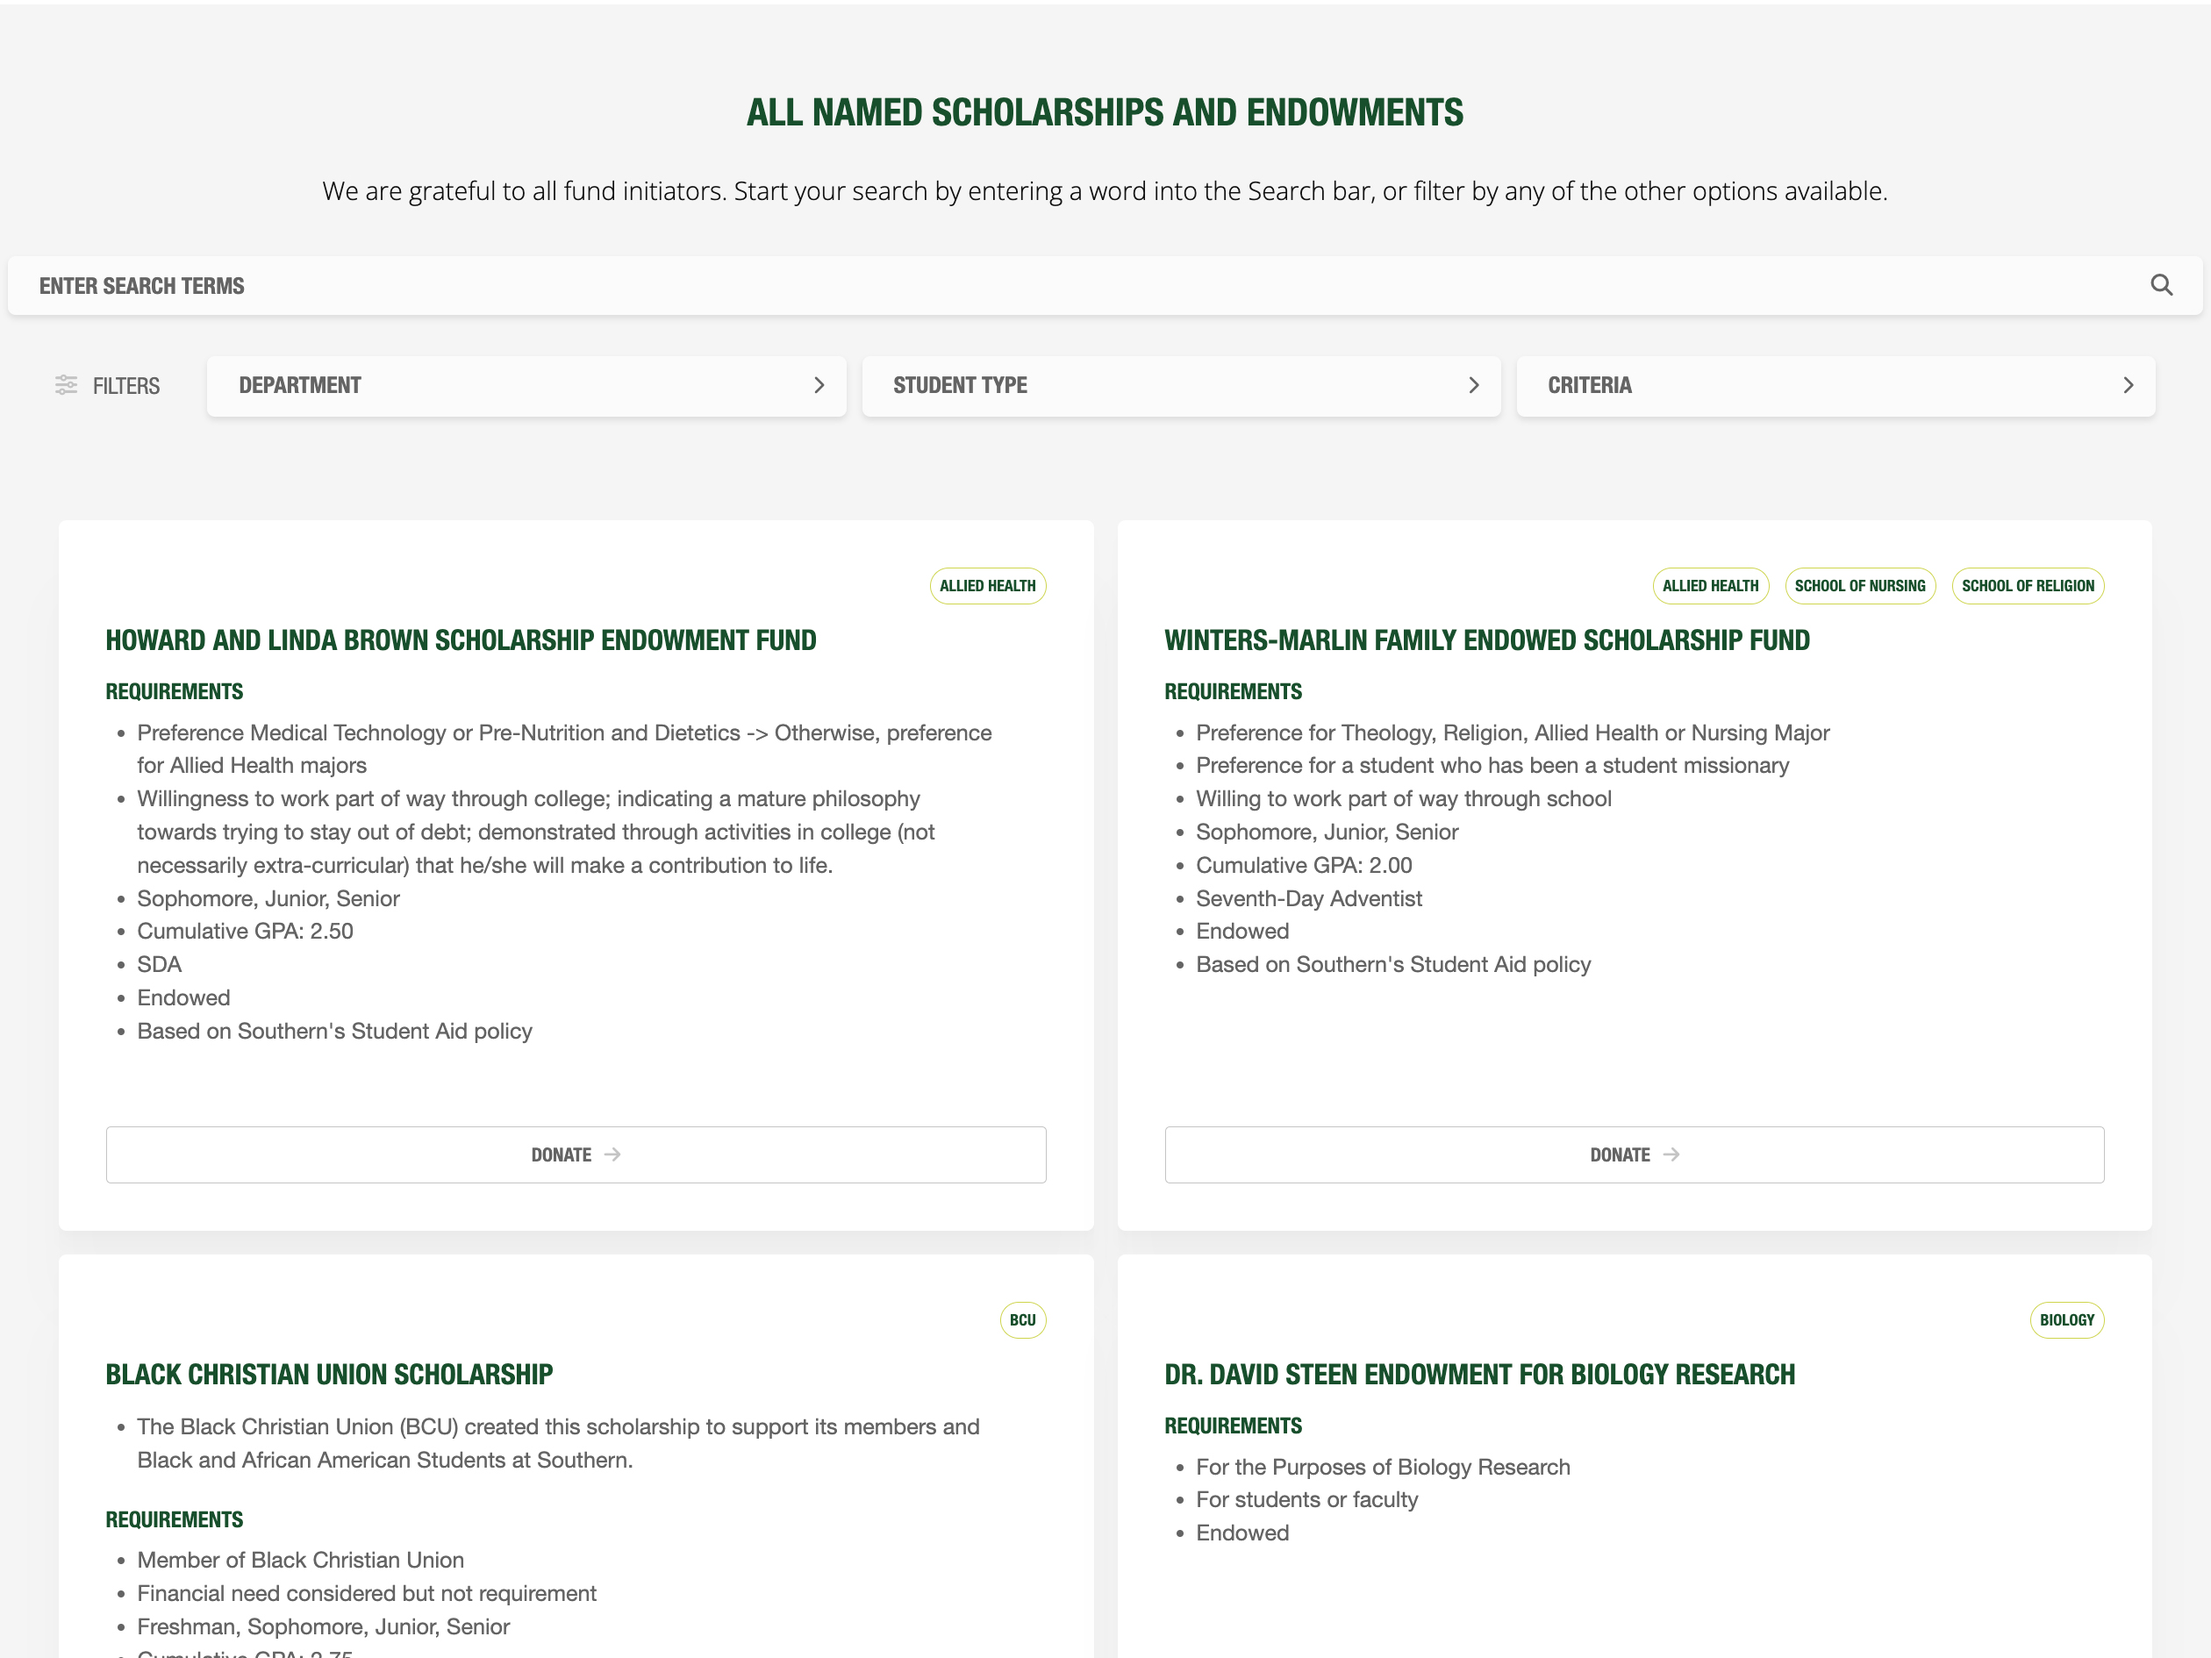
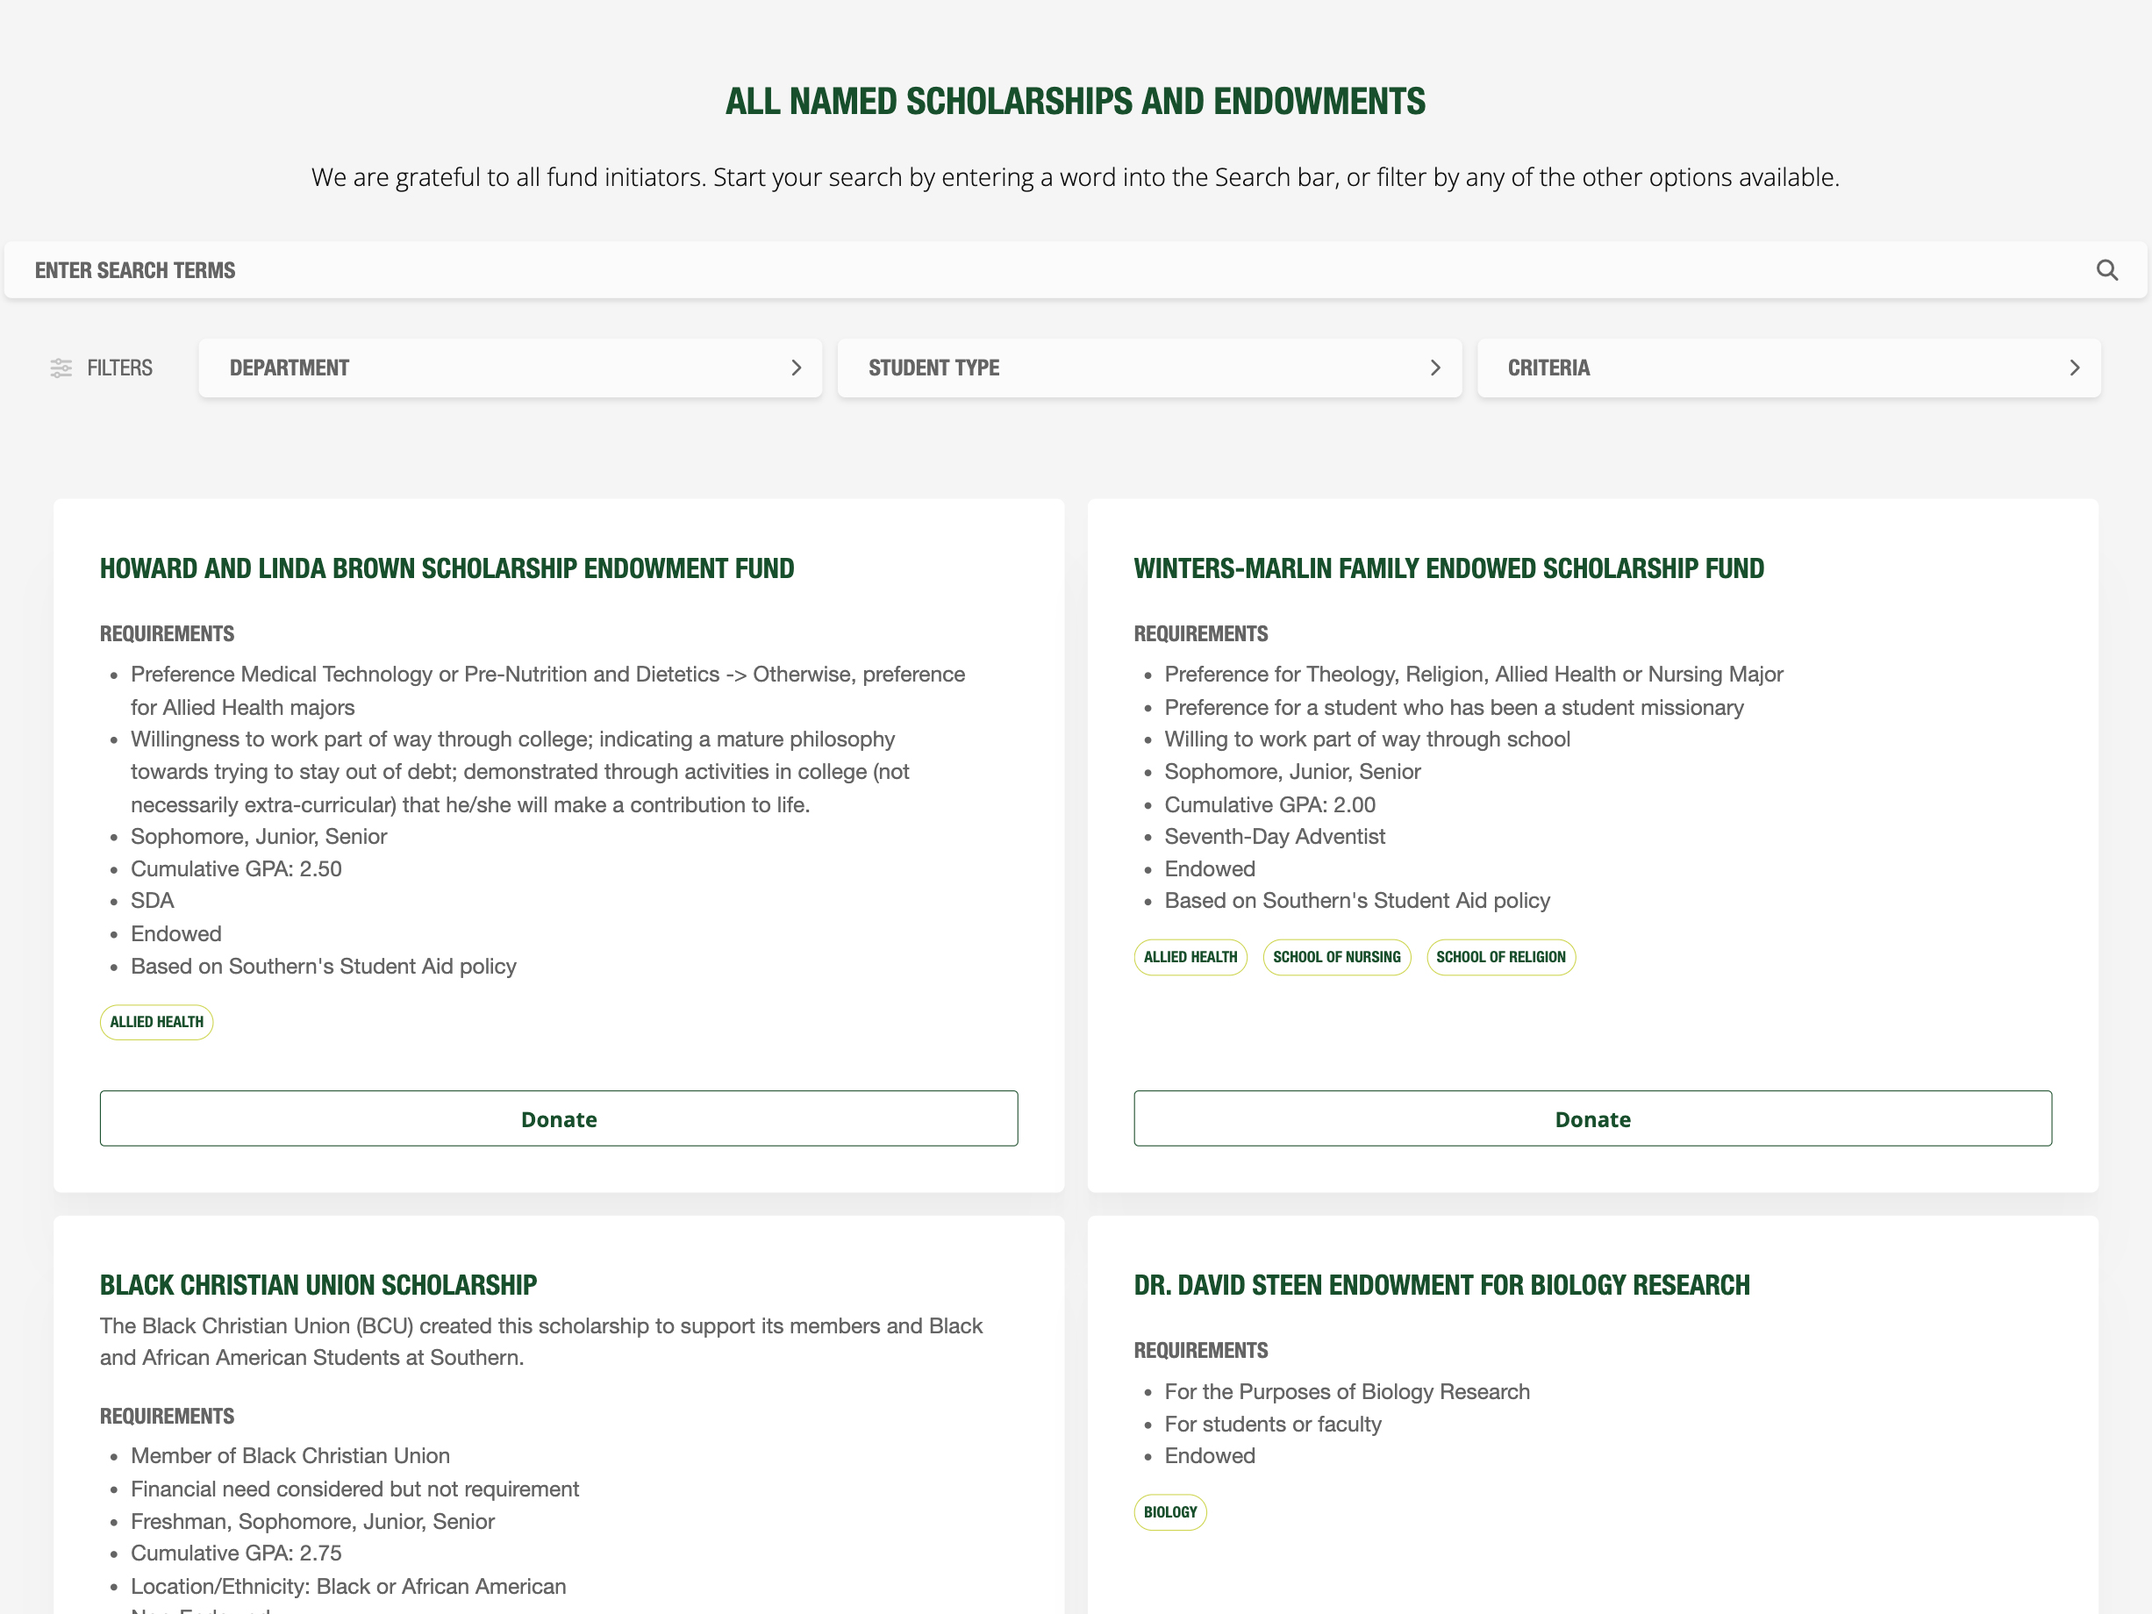
chore: updated endowment image after design chagnes

diff --git a/README.md b/README.md
@@ -34,6 +34,6 @@ The Braun Bauen website built with Hugo.
 - [x] Fix header/footer resolution
 - [x] 404 page
 - [x] After domain set, change root links to domain
-- [ ] Update endowments image after changes
+- [x] Update endowments image after changes
 - [ ] Fix Header scale on reload
 - [ ] Animate swiper gradient on scroll 
